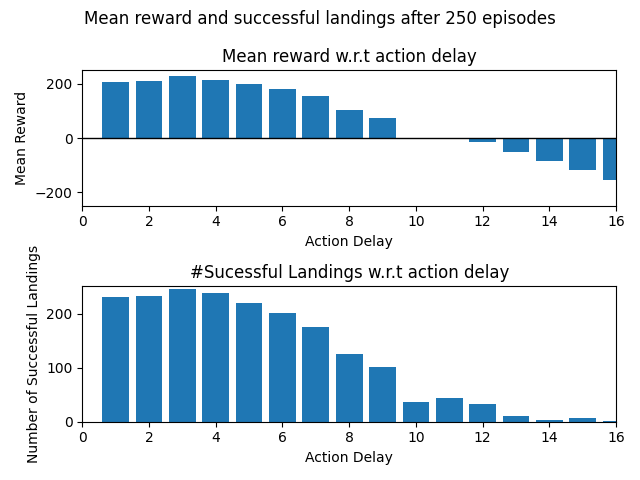
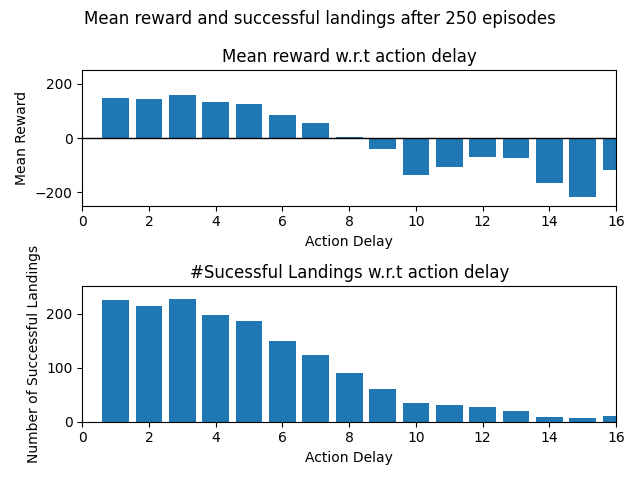
Dev: Ran R1 in R2 environment

diff --git a/scripts/test.py b/scripts/test.py
@@ -12,7 +12,7 @@ def main():
 
     # load our trained q-network
     qnetwork = QNetwork(state_size=8, action_size=4, seed=1)
-    qnetwork.load_state_dict(torch.load("../models/dqn_land_anywhere.pth"))
+    qnetwork.load_state_dict(torch.load("../models/dqn.pth"))
     qnetwork.eval()
     softmax = torch.nn.Softmax(dim=1)
 
@@ -22,7 +22,7 @@ def main():
     ''' Calculate Rewards over multiple delays
         The action delay is calculated as timestep % delay_factor
     '''
-    t_delay = range(1,16)
+    t_delay = range(1,17)
     scores = [None] * len(t_delay)
     landings = [None] * len(t_delay)
 

diff --git a/scripts/irl.py b/scripts/irl.py
@@ -40,7 +40,7 @@ def main():
             if (episode%50 == 0):
                 print("On episode: ", episode)
             # reset to start
-            state = env.reset()
+            #state = env.reset()
             state_x = []
             state_y = []
             episode_reward = 0
